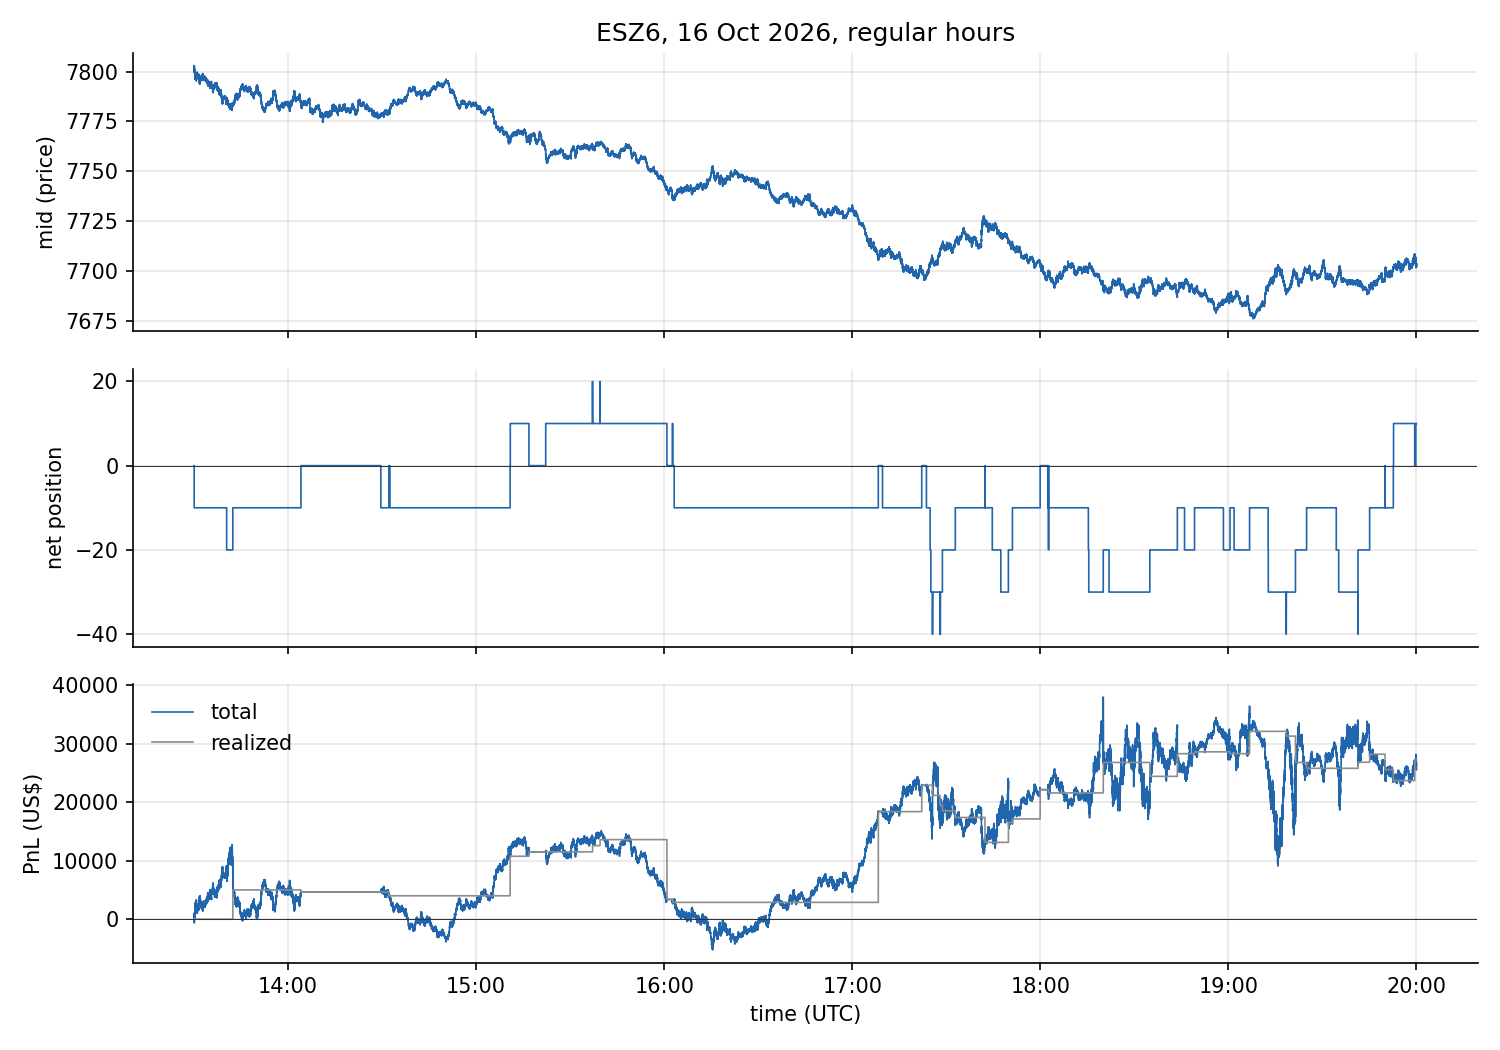
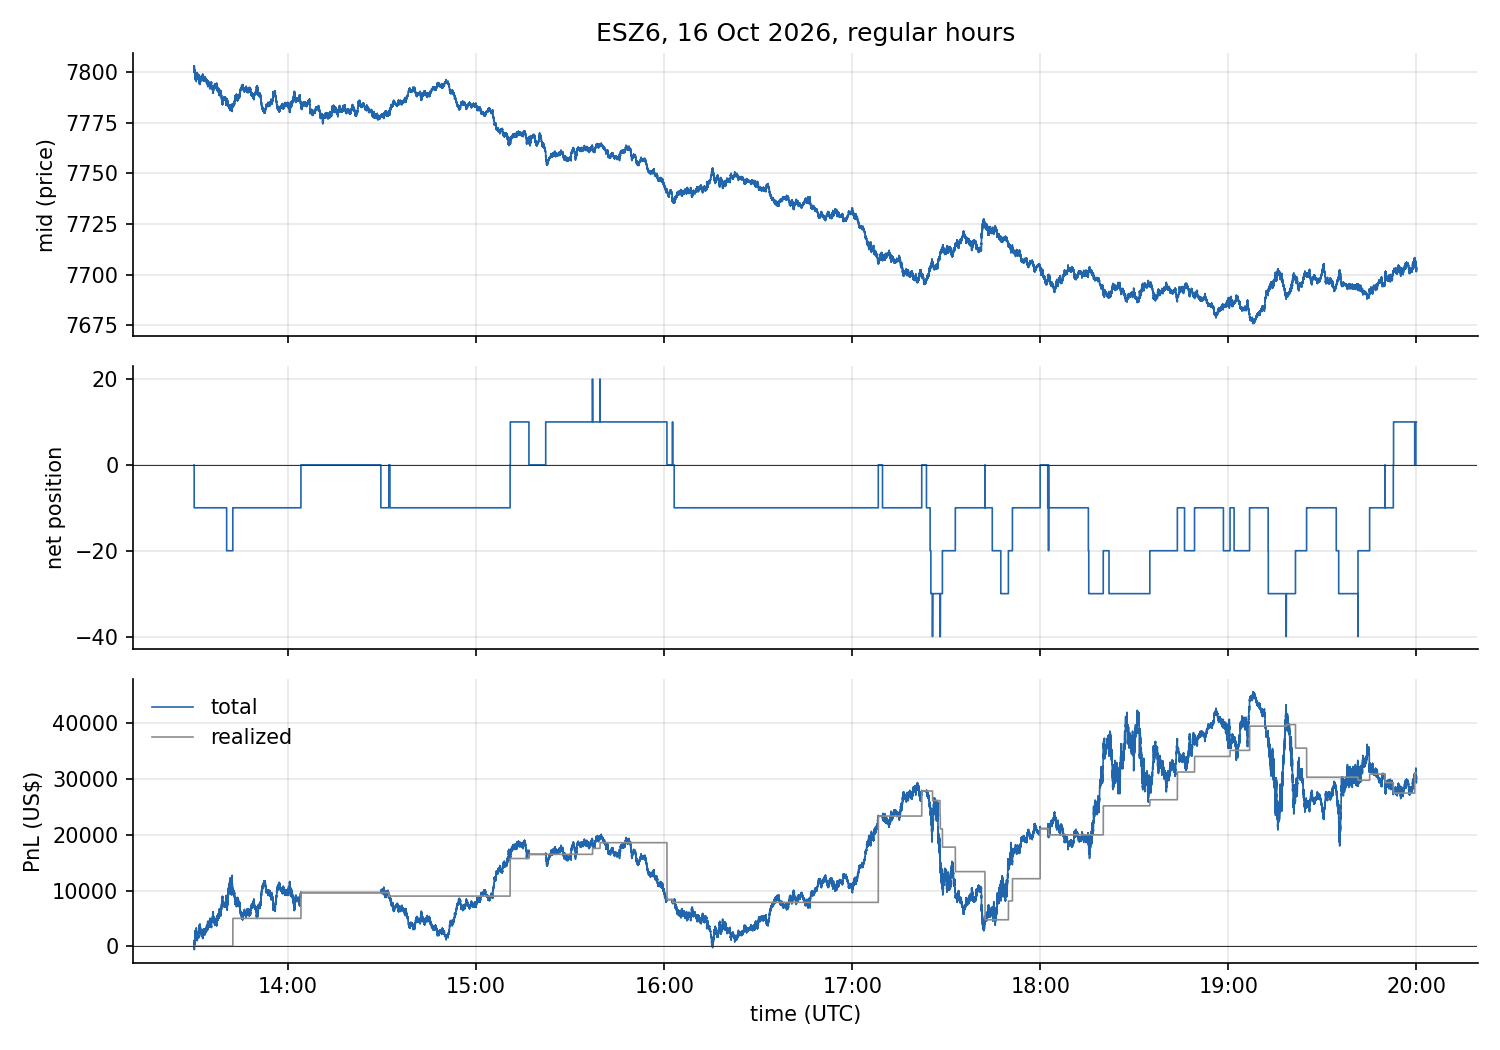
README: corrected ESZ6 run and the four fill rules, regenerated PnL chart

diff --git a/README.md b/README.md
@@ -122,16 +122,9 @@ Optional outputs (configured in the `.ini`): a PnL/inventory time series
 
 ## Sample output
 
-> **Correction pending re-run.** The figures below were produced before a fix to the
-> position accounting in `execution/OMS.cpp`: partly covering a short reset the entry
-> price to the cover price, and a flip from short to long kept the old short entry.
-> Both distort realised and unrealised PnL whenever the book is short, which it was for
-> most of this session. The fill count and order count are unaffected; the PnL and
-> drawdown need a re-run on the same feed.
-
 ESZ6 (the front month) on Friday 16 October 2026, regular hours. The pull
 cost US$1.19 and gave 8,907,105 `mbp-1` records, of which 8,406,677 change
-the top of book. With `data/es.ini`:
+the top of book, and 500,392 trade prints. With `data/es.ini`:
 
 ```
 # loaded 8406677 md events for symbol ESZ6
@@ -143,31 +136,46 @@ orders submitted    : 556508
 fills               : 77
 ending position     : 10
 last mid (ticks)    : 30812
-realized PnL        : 546.0417  (2184.1667 ticks)
+realized PnL        : 622.5000  (2490.0000 ticks)
 unrealized PnL      : -20.0000  (-80.0000 ticks)
-total PnL           : 526.0417  (2104.1667 ticks)
-max drawdown        : 577.0833  (2308.3333 ticks)
+total PnL           : 602.5000  (2410.0000 ticks)
+max drawdown        : 552.5000  (2210.0000 ticks)
 kill switch tripped : no
 ```
 
 PnL is in ticks times contracts (the first figure is ticks times
 `tick_size`, i.e. index points times contracts). At US$12.50 a tick, total
-PnL is about US$26,300 and the max drawdown about US$28,900. The run took
-about 20 minutes on an 8 GB laptop, because the engine holds the whole day
-in memory.
+PnL is about US$30,100 and the max drawdown about US$27,600. The run took
+about 18 minutes on an 8 GB laptop. The OCaml replay with the touch rule
+gives the same summary and a byte-identical fill blotter in 11 seconds.
 
 ![PnL on ESZ6, 16 Oct 2026](docs/pnl_es.png)
 
-Read this number with care:
+The same day and config under each fill rule, through `ocaml/` with the
+trade prints. Markouts are mean ticks per fill (`analytics/markouts.py`):
+side times (mid at fill time plus the horizon, minus the fill price).
 
-- **Fills are on touch with no queue position**, so PnL is optimistic. A
-  resting order fills as soon as the market reaches its price, as if it were
-  first in the queue. That day the touch held a median of about 25 contracts
-  on each side, all ahead of a new order, so many of these fills would not
-  happen.
-- **Most of the gain is direction, not spread.** ES fell about 100 points
-  that day and the strategy was net short for most of it (see the position
-  panel). On a day that rallied the same way, the result would likely flip.
+| Fill rule | Fills | Contracts | Total PnL | Max drawdown | 0 ms | 1 s | 1 m | 5 m |
+|---|---|---|---|---|---|---|---|---|
+| `touch` (the C++ default) | 77 | 770 | US$30,125 | US$27,625 | -0.94 | -0.33 | -1.53 | +1.16 |
+| `through` | 31 | 310 | -US$13,375 | US$37,250 | -1.84 | -1.08 | -1.82 | -4.66 |
+| `queue-proportional` | 117 | 1,112 | -US$4,663 | US$29,325 | +1.33 | -0.64 | -1.33 | -0.56 |
+| `queue-behind` | 118 | 1,112 | -US$4,663 | US$29,325 | +1.31 | -0.62 | -1.71 | -0.53 |
+
+The queue rules count partial fills separately, so they show more fills
+than the touch rule.
+
+Read these numbers with care:
+
+- **The touch rule's gain does not survive queue position.** With the
+  orders filled only once the volume ahead of them has traded, the same
+  quotes lose about US$4,700. The touch fills start out under water (a
+  0 ms markout of -0.94 ticks): the order fills only after the market has
+  already reached its price.
+- **Most of the touch gain is direction, not spread.** ES fell about 100
+  points that day and the strategy was net short for most of it (see the
+  position panel). On a day that rallied the same way, the result would
+  likely flip.
 - **It requotes far too often.** 556,508 orders for 77 fills, because it
   requotes on nearly every top-of-book change. A real exchange's messaging
   limits would not allow that.

diff --git a/ocaml/README.md b/ocaml/README.md
@@ -12,7 +12,7 @@ It has three parts.
 
 With the touch or through rule, `lobsim-replay` produces a byte-identical fill blotter and an identical summary to `build/run_backtest`. `crosscheck.sh` checks this for every config in `data/` on three synthetic feeds each (24 runs, up to 2,369 fills per run). It is about a hundred times faster on the same feed (0.2 s against 19.4 s for 200,000 events), mainly because the C++ OMS scans every order it has ever seen on each risk check, which makes a full session quadratic, while the OCaml OMS keeps live orders in their own table.
 
-Writing the port turned up a bug in the C++ position accounting, now fixed in `execution/OMS.cpp` with two regression tests: partly covering a short reset the entry price to the cover price, and flipping from short to long kept the old short entry price. Both distort realised and unrealised PnL whenever the book is short, so the published ESZ6 figures need a re-run.
+Writing the port turned up a bug in the C++ position accounting, now fixed in `execution/OMS.cpp` with two regression tests: partly covering a short reset the entry price to the cover price, and flipping from short to long kept the old short entry price. Both distort realised and unrealised PnL whenever the book is short; the ESZ6 figures in the main README are from after the fix.
 
 ## The fill rules
 
